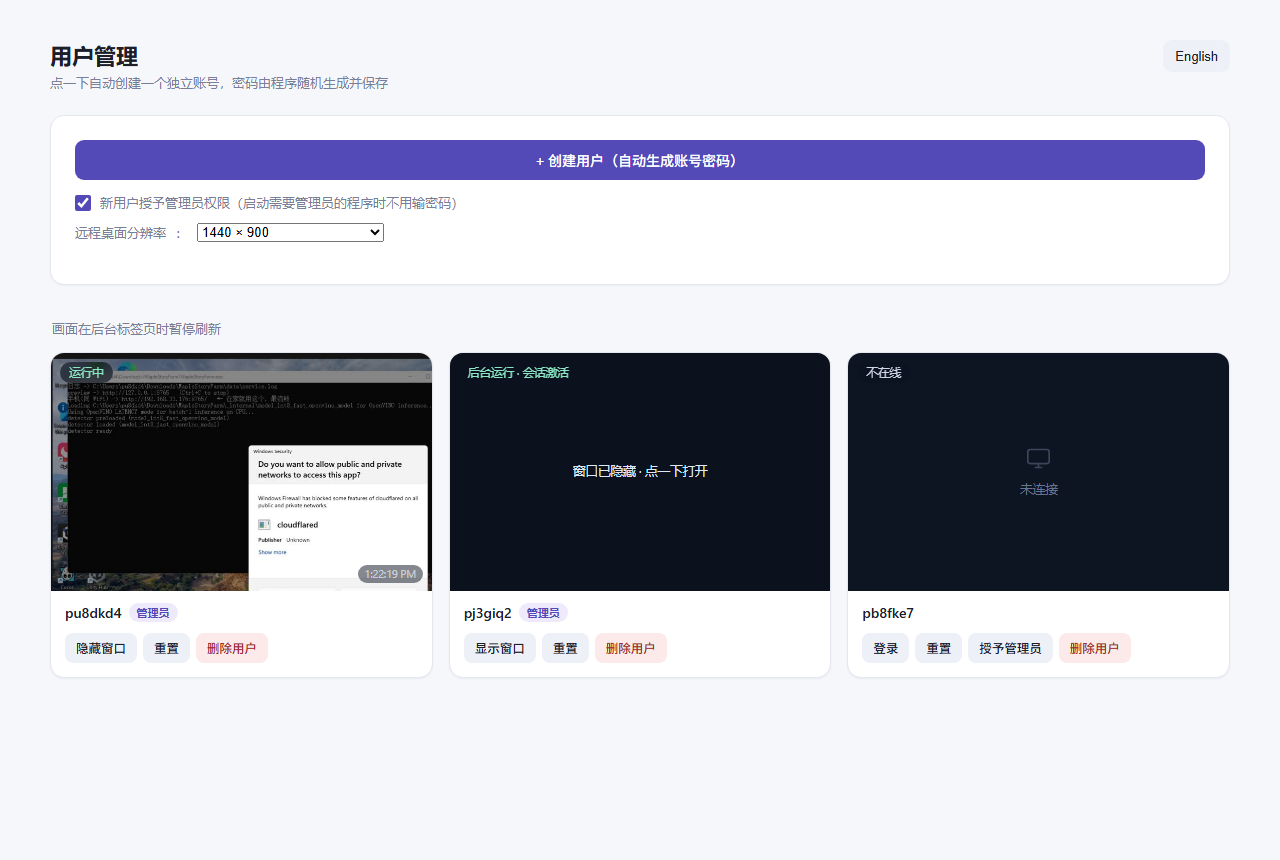
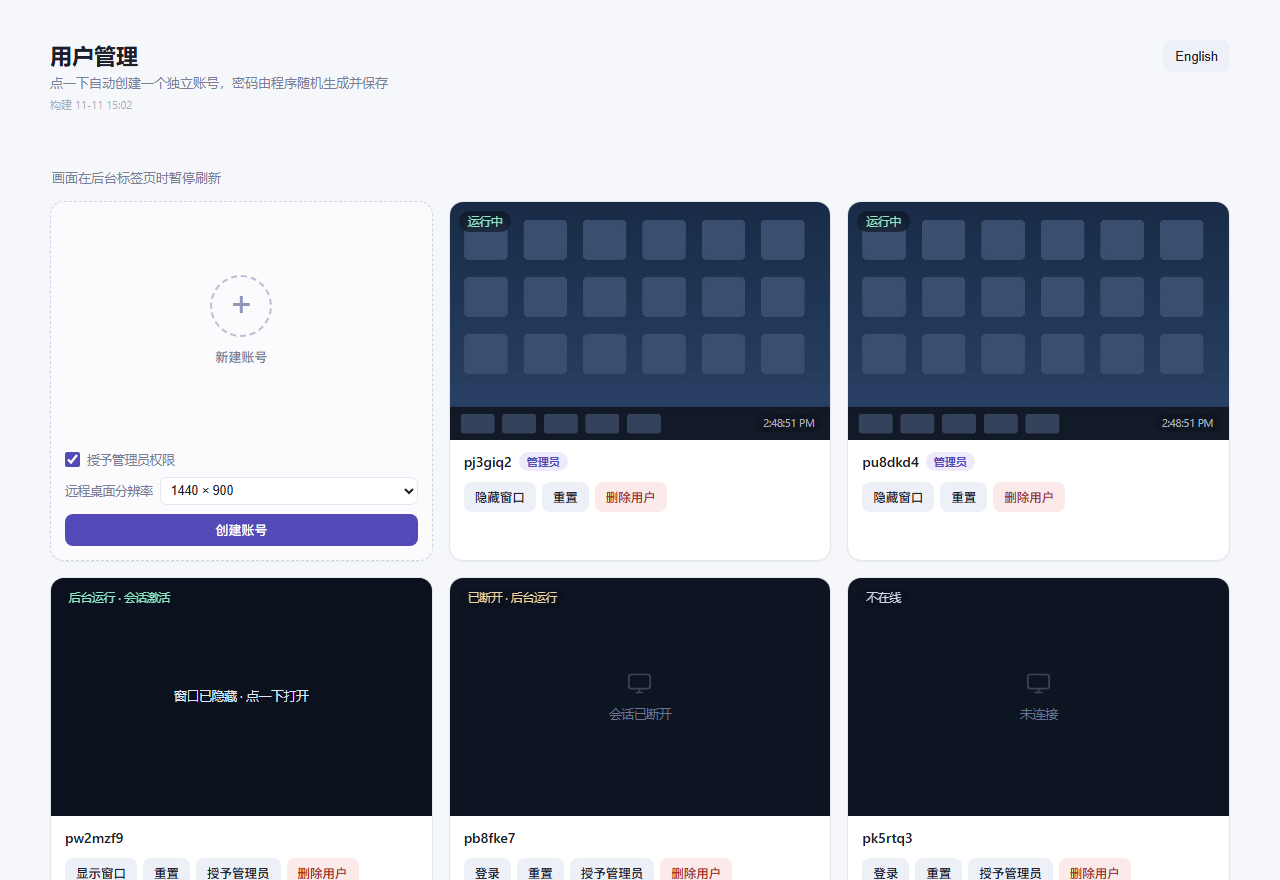
Turn the "create user" panel into the first card of the grid
The form used to sit in its own white panel above the list, so the page
read as "settings block + something else". Now it's a dashed card at the
head of the grid: big plus, the account options inside it, and the create
button at the bottom of the same card.

- The card lives in the static HTML inside #grid, so refresh() no longer
  does grid.innerHTML='' (that would have wiped it) - it removes only the
  account cards and re-adds an #emptyTip node for the empty state.
- Options keep their ids (chkAdmin/resSel/grpNative/...) so the existing
  saveCfg()/saveRes()/applyStatus() code is untouched; only the labels got
  shorter because the card is 292px wide ("授予管理员权限" instead of the
  full sentence, which moved into the title tooltip).
- register() disables both entry points (plus area and Create) while the
  request is in flight.
- Dropped the now-unused .card/.row/.wide/.chk rules.

diff --git a/src/webui/server.py b/src/webui/server.py
@@ -1544,17 +1544,12 @@ body{font-family:"Segoe UI","Microsoft YaHei",system-ui,sans-serif;background:va
 h1{font-size:22px;font-weight:600;margin-bottom:4px}
 .sub{color:var(--sub);font-size:13px;margin-bottom:6px}
 .ver{color:var(--sub);font-size:11px;opacity:.62;margin-bottom:22px;font-variant-numeric:tabular-nums}
-.card{background:var(--card);border:1px solid var(--line);border-radius:14px;padding:24px;box-shadow:0 1px 2px rgba(20,20,50,.04)}
-.row{display:flex;gap:10px;margin-bottom:20px;align-items:center}
 button{height:40px;border:none;border-radius:9px;padding:0 18px;font-size:14px;cursor:pointer;font-weight:500}
 .primary{background:var(--brand);color:#fff}
 .ghost{background:#eef0f8;color:var(--txt)}
 .danger{background:#fceaea;color:var(--bad)}
 button:disabled{opacity:.5;cursor:default}
-.wide{flex:1}
 .hint{color:var(--sub);font-size:13px;line-height:1.6}
-.chk{display:flex;align-items:center;gap:9px;font-size:13px;color:var(--sub);margin:-6px 0 18px;cursor:pointer;user-select:none}
-.chk input{width:16px;height:16px;accent-color:var(--brand);cursor:pointer;flex:0 0 auto}
 #banner{display:none;background:#fdf3e3;border:1px solid #f2ddb8;color:#8a5a12;font-size:13px;padding:10px 14px;border-radius:10px;margin-bottom:16px;line-height:1.6}
 .grid{display:grid;grid-template-columns:repeat(auto-fill,minmax(292px,1fr));gap:16px}
 .ucard{background:var(--card);border:1px solid var(--line);border-radius:14px;overflow:hidden;box-shadow:0 1px 2px rgba(20,20,50,.05);display:flex;flex-direction:column;transition:box-shadow .18s,border-color .18s}
@@ -1584,7 +1579,18 @@ button:disabled{opacity:.5;cursor:default}
 .adm{background:#eee9fb;color:#534ab7;font-size:11px;padding:2px 8px}
 #msg{margin-top:14px;font-size:13px;min-height:20px}
 .ok{color:var(--ok)}.err{color:var(--bad)}
-.empty{color:var(--sub);text-align:center;padding:28px 0;font-size:14px}
+.empty{color:var(--sub);text-align:center;padding:28px 0;font-size:14px;grid-column:1/-1}
+.newcard{border-style:dashed;border-color:#ccd3e6;background:rgba(255,255,255,.55)}
+.newcard:hover{border-color:#9fa9c6;background:#fff;box-shadow:0 6px 18px rgba(20,20,50,.08)}
+.newshot{width:100%;height:auto;flex:0 0 auto;aspect-ratio:16/10;display:flex;flex-direction:column;align-items:center;justify-content:center;gap:10px;padding:0;background:transparent;border-radius:0;color:var(--sub);cursor:pointer}
+.newshot .plus{width:62px;height:62px;border-radius:50%;border:2px dashed #b8c1d8;display:flex;align-items:center;justify-content:center;font-size:35px;font-weight:300;line-height:1;color:#8d97b4;padding-bottom:4px;transition:transform .18s,color .18s,border-color .18s}
+.newcard:hover .plus{border-style:solid;border-color:var(--brand);color:var(--brand);transform:scale(1.06)}
+.newlbl{font-size:13px;font-weight:500}
+.newbody{gap:9px}
+.newopt{display:flex;align-items:center;gap:7px;font-size:12.5px;color:var(--sub);cursor:pointer;user-select:none;min-width:0}
+.newopt input{width:15px;height:15px;accent-color:var(--brand);cursor:pointer;flex:0 0 auto}
+.newopt select{height:28px;font-size:12.5px;border:1px solid var(--line);border-radius:7px;padding:0 6px;background:#fff;color:var(--txt);flex:1;min-width:0;cursor:pointer}
+.newbtn{height:32px;font-size:13px;border-radius:8px;padding:0 12px}
 .langbtn{height:32px;padding:0 12px;font-size:13px;flex:0 0 auto}
 </style></head><body>
 <div class="wrap">
@@ -1593,35 +1599,41 @@ button:disabled{opacity:.5;cursor:default}
 <button class="ghost langbtn" id="btnLang" onclick="toggleLang()">English</button>
 </div>
 <div id="banner"></div>
-<div class="card">
-<div class="row">
-<button class="primary wide" id="btnNew" onclick="register()">+ 创建用户（自动生成账号密码）</button>
-<button class="danger" id="btnFix" style="display:none" onclick="fixRdp()">修复画面</button>
-</div>
-<label class="chk" title="勾选后新账号加入管理员组：启动需要管理员的程序（如游戏启动器）时 UAC 只需点「是」，不用输管理员密码">
-<input type="checkbox" id="chkAdmin" onchange="saveCfg()"><span id="chkAdminText">新用户授予管理员权限（启动需要管理员的程序时不用输密码）</span></label>
-<div class="chk"><span id="resLabel">远程桌面分辨率</span>：
-<select id="resSel" onchange="saveRes()">
+<div id="msg"></div>
+<div class="hint" id="shotHint" style="margin:0 0 12px 2px"></div>
+<div id="grid" class="grid">
+<div class="ucard newcard" id="newCard">
+<button class="newshot" id="btnNew" onclick="register()" title="点击创建新账号，账号和密码自动生成">
+<span class="plus">+</span><span class="newlbl" id="newLbl">新建账号</span>
+</button>
+<div class="cbody newbody">
+<label class="newopt" id="chkAdminLbl">
+<input type="checkbox" id="chkAdmin" onchange="saveCfg()"><span id="chkAdminText">授予管理员权限</span></label>
+<div class="newopt"><span id="resLabel">远程桌面分辨率</span><select id="resSel" onchange="saveRes()">
 <option value="auto" id="resAuto">跟随本机屏幕</option>
 <option value="fullscreen" id="resFull">全屏（无窗口边框）</option>
 <optgroup label="本机支持" id="grpNative"></optgroup>
 <optgroup label="常用分辨率" id="grpCommon"></optgroup>
 </select></div>
+<button class="primary newbtn" id="btnCreate" onclick="register()">创建账号</button>
+<button class="danger newbtn" id="btnFix" style="display:none" onclick="fixRdp()">修复画面</button>
 </div>
-<div id="msg"></div>
-<div class="hint" id="shotHint" style="margin:0 0 12px 2px"></div>
-<div id="grid" class="grid"></div>
+</div>
+</div>
 </div>
 <script>
 const I18N={
 zh:{
  title:'用户管理',
  subtitle:'点一下自动创建一个独立账号，密码由程序随机生成并保存',
- btnNew:'+ 创建用户（自动生成账号密码）',
+ btnNew:'新建账号',
+ btnCreate:'创建账号',
+ newTip:'点击创建新账号，账号和密码自动生成',
+ chkAdminTip:'勾选后新账号加入管理员组：启动需要管理员的程序（如游戏启动器）时 UAC 只需点「是」，不用输管理员密码',
  btnFix:'修复画面',
- chkAdmin:'新用户授予管理员权限（启动需要管理员的程序时不用输密码）',
+ chkAdmin:'授予管理员权限',
  thUser:'用户', thStatus:'状态', thAct:'操作',
- empty:'还没有用户，点上面按钮创建一个',
+ empty:'还没有账号，点左边卡片上的 + 新建一个',
  online:'运行中', offline:'不在线', disconnected:'已断开 · 后台运行', pending:'残留', admin:'管理员',
  bg:'后台运行 · 会话激活',
  disconnect:'断开',
@@ -1688,11 +1700,14 @@ focusFail:'切换窗口失败：',
 en:{
  title:'User Management',
  subtitle:'Create an isolated local account in one click — the password is generated and saved automatically',
- btnNew:'+ Create user (auto username & password)',
+ btnNew:'New account',
+ btnCreate:'Create',
+ newTip:'Click to create a new account - username and password are generated for you',
+ chkAdminTip:'Add new accounts to the Administrators group: programs that need elevation only ask for a Yes/No instead of an admin password',
  btnFix:'Fix display',
- chkAdmin:'Grant administrator rights to new users (no password prompt on UAC)',
+ chkAdmin:'Grant administrator',
  thUser:'User', thStatus:'Status', thAct:'Actions',
- empty:'No users yet — click the button above to create one.',
+ empty:'No accounts yet - click + on the card to create one.',
  online:'Active', offline:'Offline', disconnected:'Disconnected · running', pending:'Leftover', admin:'Admin',
  bg:'Background · session active',
  disconnect:'Disconnect',
@@ -1765,9 +1780,12 @@ document.documentElement.lang=(LANG==='zh'?'zh-CN':'en');
 document.title=t('title');
 document.getElementById('ttl').textContent=t('title');
 document.getElementById('sub').textContent=t('subtitle');
-document.getElementById('btnNew').textContent=t('btnNew');
+document.getElementById('newLbl').textContent=t('btnNew');
+document.getElementById('btnCreate').textContent=t('btnCreate');
 document.getElementById('btnFix').textContent=t('btnFix');
 document.getElementById('chkAdminText').textContent=t('chkAdmin');
+document.getElementById('chkAdminLbl').title=t('chkAdminTip');
+document.getElementById('btnNew').title=t('newTip');
 document.getElementById('resLabel').textContent=t('resLabel');
 document.getElementById('resAuto').textContent=t('resAuto');
 document.getElementById('resFull').textContent=t('resFull');
@@ -1879,7 +1897,14 @@ let users;
 try{users=await (await fetch('/api/users')).json()}catch(e){return}
 if(!Array.isArray(users))return;
 const grid=document.getElementById('grid');
-if(!users.length){grid.innerHTML='<div class="empty">'+t('empty')+'</div>';cards={};return}
+let tip=document.getElementById('emptyTip');
+if(!users.length){
+for(const n in cards){cards[n].el.remove();delete cards[n]}
+if(!tip){tip=document.createElement('div');tip.id='emptyTip';tip.className='empty';grid.appendChild(tip)}
+tip.textContent=t('empty');
+return;
+}
+if(tip)tip.remove();
 const seen={};
 for(const u of users){
 seen[u.name]=1;
@@ -1932,14 +1957,15 @@ refresh();
 }
 
 async function register(){
-const btn=document.getElementById('btnNew');btn.disabled=true;
+const btn=document.getElementById('btnNew'),btn2=document.getElementById('btnCreate');
+btn.disabled=true;btn2.disabled=true;
 msg(t('creating'));
 try{
 const r=await api('register',{admin:document.getElementById('chkAdmin').checked});
 if(r.ok)msg(t(r.user.admin?'createdAdmin':'createdNormal',{name:r.user.name}),'ok');
 else msg(r.error,'err');
 }catch(e){msg(t('requestFail')+e,'err')}
-btn.disabled=false;
+btn.disabled=false;btn2.disabled=false;
 refresh();
 }
 async function hideWin(name){

diff --git a/README.en.md b/README.en.md
@@ -12,7 +12,8 @@ colleagues their own desktop, and so on.
 > The button at the top right switches between English and Chinese instantly
 > (Chinese UI: [docs/screenshot_webui.png](docs/screenshot_webui.png)).
 
-> UI overview: **Create user** generates a random account name + strong password automatically;
+> UI overview: the first card in the grid is **New account** - click the plus (or the Create button
+> inside it) to generate a random account name + strong password automatically;
 > **Login** opens a separate mstsc window (Windows' built-in client); **Reset** signs the session
 > out (useful when the desktop freezes); **Delete** removes the account, profile folder and
 > registry leftovers.

diff --git a/README.md b/README.md
@@ -11,7 +11,8 @@
 > 界面右上角「English / 中文」可实时切换语言（英文界面效果见
 > [docs/screenshot_webui_en.png](docs/screenshot_webui_en.png)）。
 
-> 界面说明：点「创建用户」自动生成随机账号 + 强密码并保存；「登录」用系统自带 mstsc 连本机
+> 界面说明：网格第一张卡片就是「新建账号」，点加号（或卡片里的「创建账号」）自动生成随机账号 +
+> 强密码并保存；每张账号卡片的「登录」用系统自带 mstsc 连本机
 > 打开独立远程桌面；「重置」注销会话（画面卡死时用）；「删除用户」彻底清理
 > 账号、用户目录和注册表残留。
 
